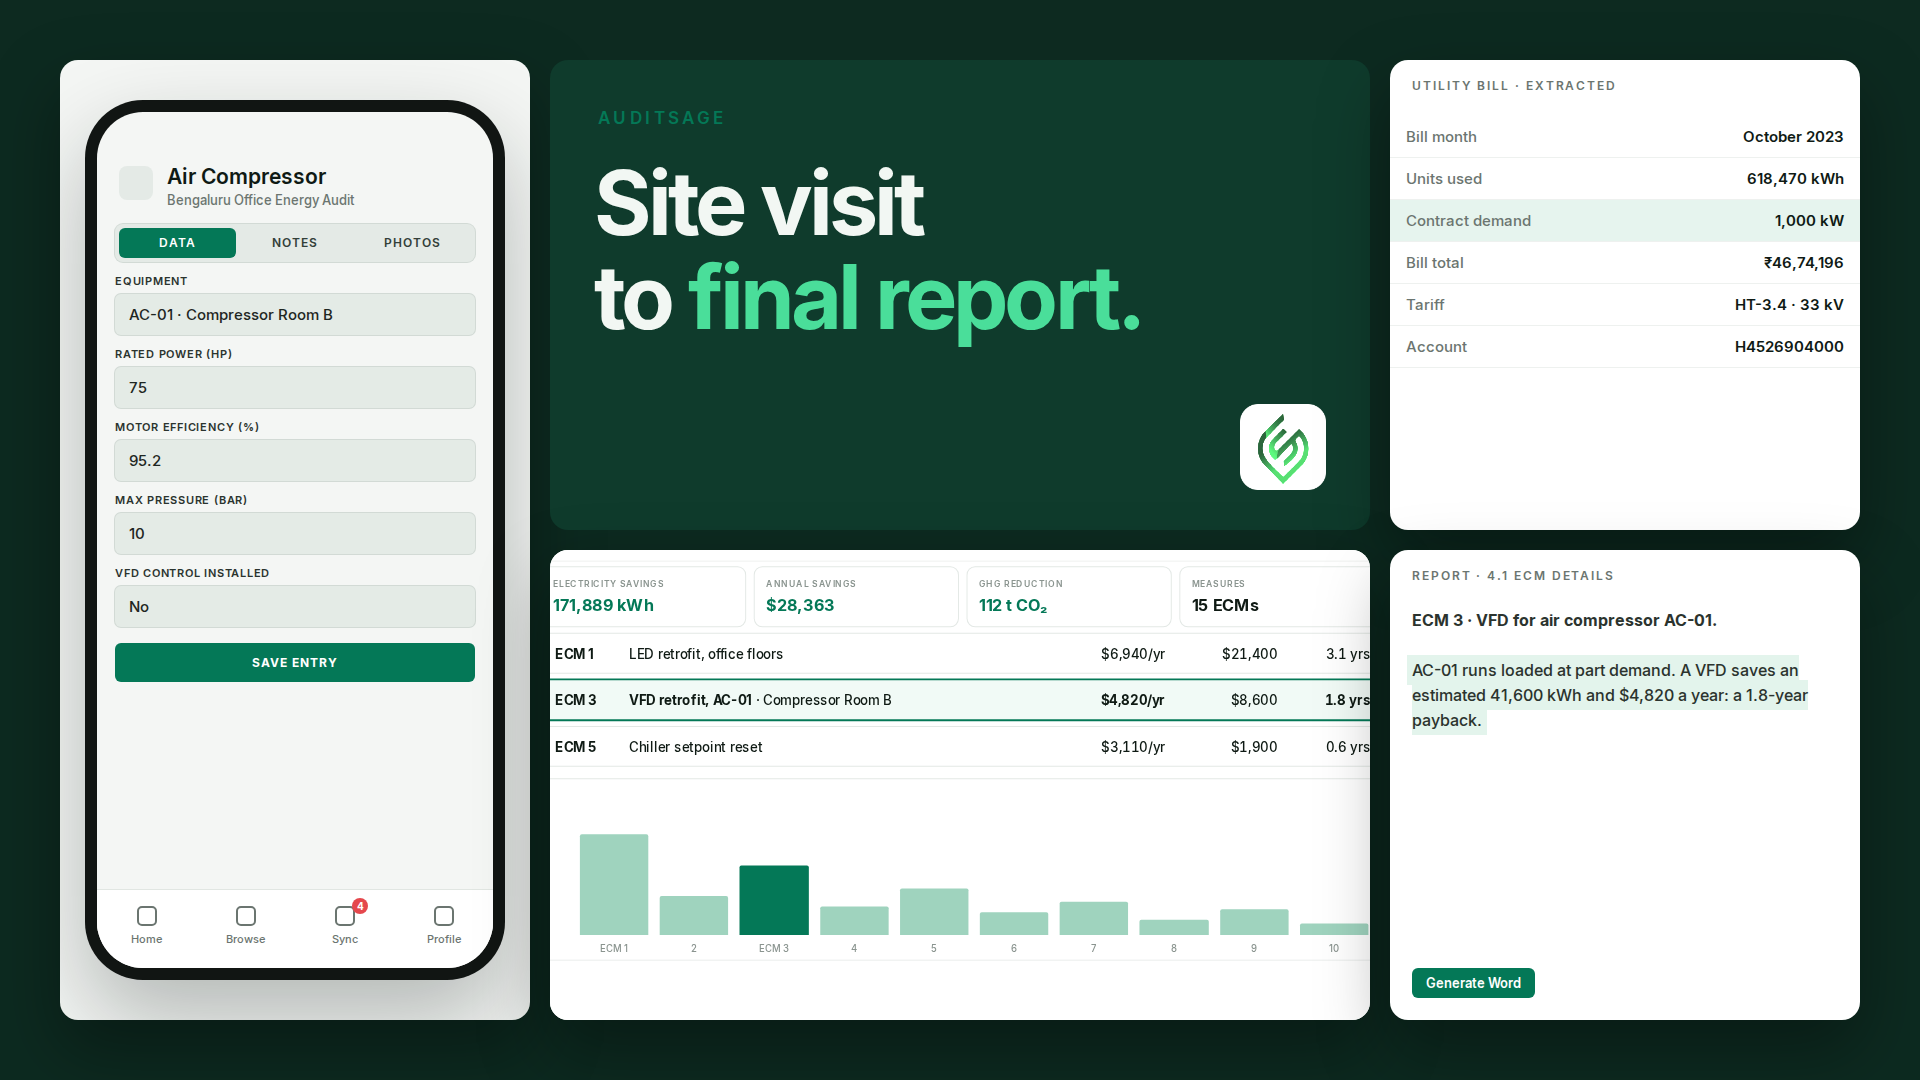
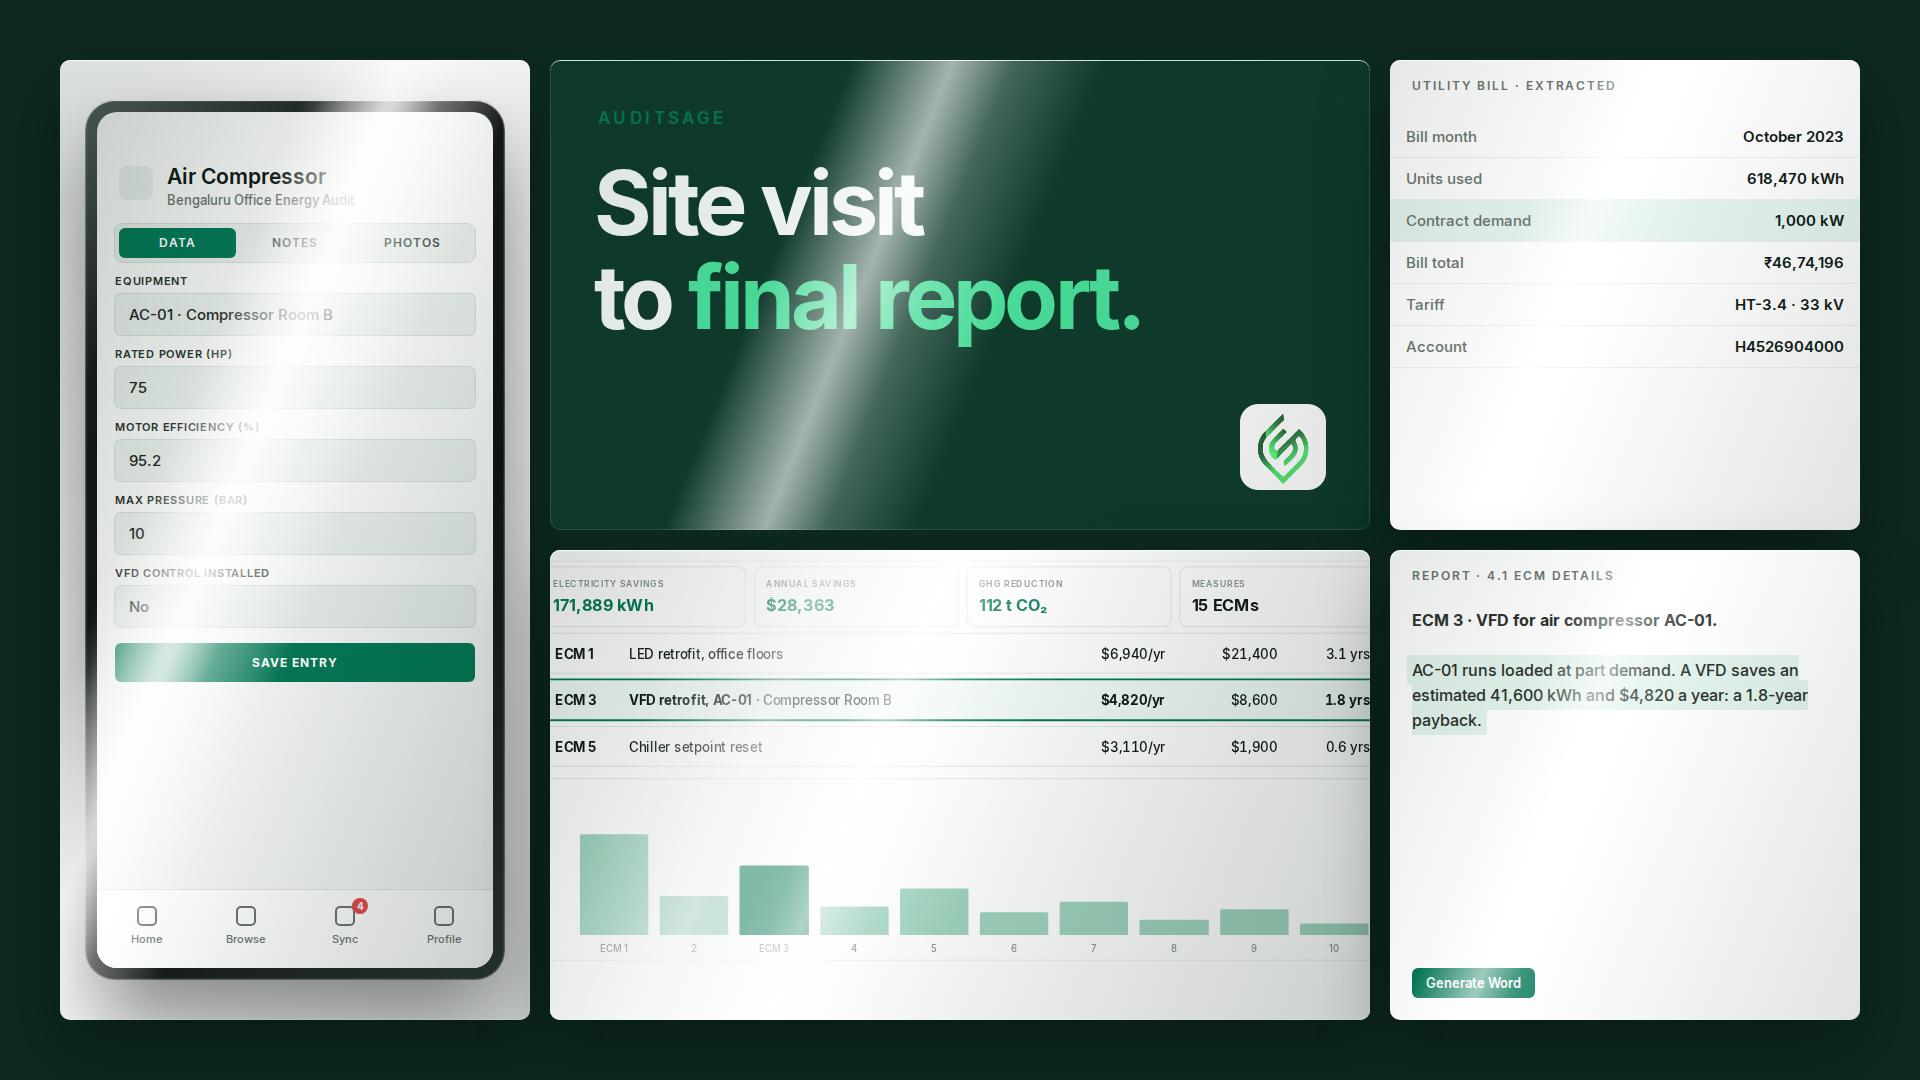
AuditSage v3: tighter mockup corners, glass shine and lit bezel
Claude-Session: https://claude.ai/code/session_01N6SAp883XGMwBKYGBCyKw5

diff --git a/auditsage/docs/storyboard/v3.html b/auditsage/docs/storyboard/v3.html
@@ -97,6 +97,16 @@ html,body { margin:0; }
 .fields .r { display:flex; justify-content:space-between; padding:11px 16px; border-bottom:1px solid #EEF1EF; }
 .fields .r span { color:#6B7570; } .fields .r b { font-weight:600; }
 .fields .r.hi { background:#E6F4EE; }
+/* Tighter mockup corners. */
+.phone { border-radius:30px !important; } .phone .scr { border-radius:20px !important; }
+.tile { border-radius:10px !important; }
+.win { border-radius:6px; }
+/* Shine: the glass is toned very slightly so a bright diagonal band reads on white UI, and the top
+   edge is lit. In the film the band sweeps across on the beat. */
+.phone::after, .win::after, .tile::after { content:''; position:absolute; inset:0; border-radius:inherit; pointer-events:none;
+  background:linear-gradient(112deg, rgba(8,30,20,.10) 0%, rgba(8,30,20,.03) 30%, rgba(255,255,255,.62) 40%, rgba(255,255,255,.22) 46%, rgba(8,30,20,.02) 55%, rgba(8,30,20,.12) 100%);
+  box-shadow:inset 0 1px 0 rgba(255,255,255,.8), inset 0 0 0 1px rgba(255,255,255,.12); }
+.phone { background:linear-gradient(135deg,#55615B 0%,#151B18 22%,#0D1210 60%,#2C3631 100%) !important; box-shadow:0 40px 90px rgba(0,0,0,.45), inset 0 0 0 1.5px rgba(255,255,255,.18) !important; }
 </style></head><body><svg width="0" height="0" style="position:absolute"><defs><g id="ctl" fill="none" stroke="#6B7570" stroke-width="1.3"><path d="M2 6h10"/><rect x="42.5" y=".5" width="11" height="11"/><path d="M84 .5l11 11M95 .5l-11 11"/></g>
 <g id="cur"><path d="M4 2l15 11-7 1 4 8-3 1-4-8-5 5z" fill="#fff" stroke="#000" stroke-width="1.2" stroke-linejoin="round"/></g></defs></svg><template id="t-phone-data"><div class="phone"><div class="scr">
   <div class="m-head"><div class="back"></div><div><h3>Air Compressor</h3><p>Bengaluru Office Energy Audit</p></div></div>
